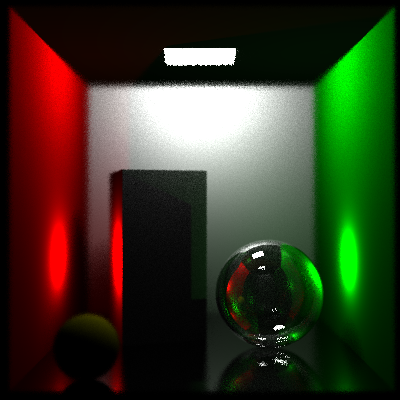
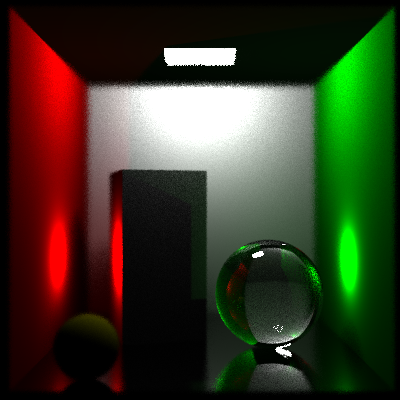
Glass slightly working

diff --git a/rt/materials/glass.cpp b/rt/materials/glass.cpp
@@ -23,23 +23,34 @@ namespace rt
 
 		float cosThetaOut = dot(normal, -outDir);
 		bool comingFromAir = cosThetaOut > 0 ? true : false;
+		Vector currentNormal = normal;
+		float currentEta = eta;
+
+		if (!comingFromAir)
+		{
+			currentEta = 1 / eta;
+			currentNormal = -1 * normal;
+			cosThetaOut = -1 * cosThetaOut;
+		}
+
 		float randomN = random();
 
 		//Ray gets reflected:
-		if (randomN > 0.5)
+		if (randomN > 0.8)
 		{
-			finalDirection = (outDir + 2 * cosThetaOut * normal).normalize();
+			finalDirection = (outDir + 2 * cosThetaOut * currentNormal).normalize();
 		}
 
 		// Ray get refracted:
 		else
 		{
-			float currentEta = eta;
-			if (!comingFromAir)
-				currentEta = 1 / eta;
-
-			float c2 = sqrt(1 - (1 / eta) * (1 / eta) * (1 - cosThetaOut * cosThetaOut));
-			finalDirection = -((currentEta * (-outDir) + (currentEta  * cosThetaOut - c2) * normal).normalize());
+			float theta1 = acos(cosThetaOut);
+			float theta2 = asin(sin(theta1) / currentEta);
+			Vector C = cos(theta1) * currentNormal;
+			Vector M = (outDir + C) / sin(theta1);
+			Vector A = sin(theta2) * M;
+			Vector B = -cos(theta2) * currentNormal;
+			finalDirection = (A + B).normalize();
 		}
 		return SampleReflectance(finalDirection, RGBColor(1, 1, 1));
 	}
